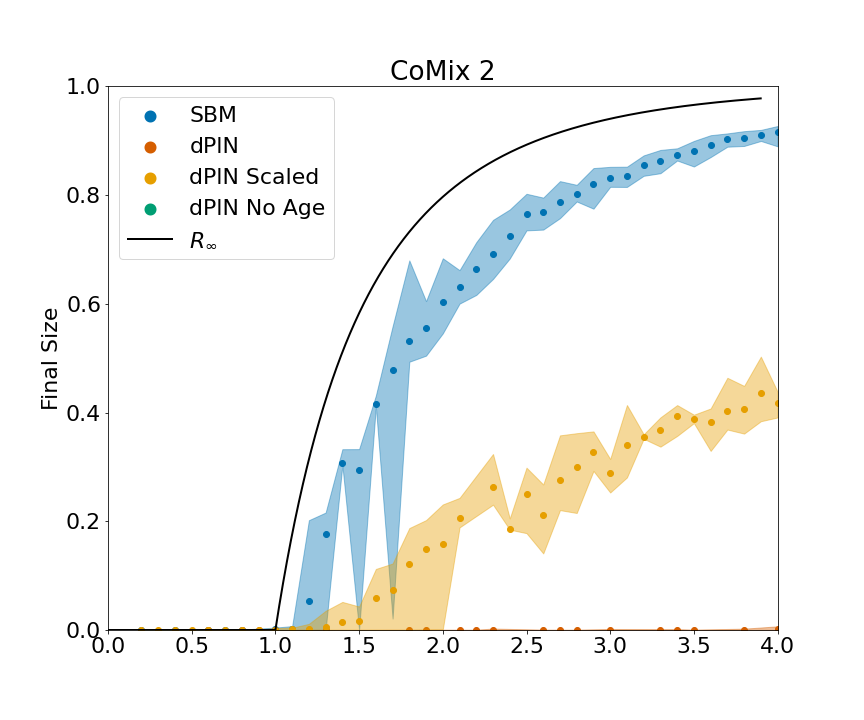
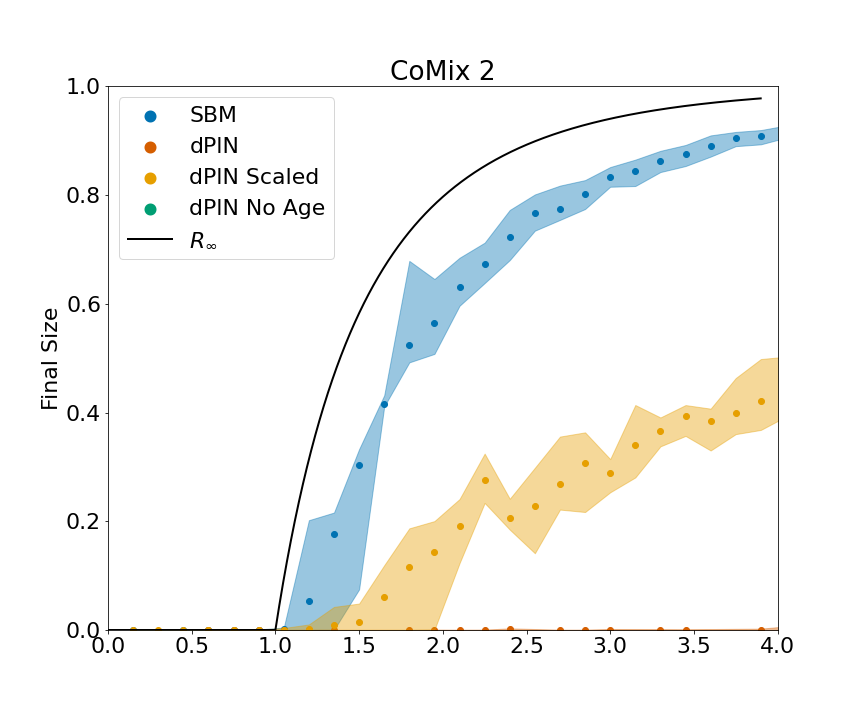
no age 5, normal 19

diff --git a/_final_sellke.py b/_final_sellke.py
@@ -30,7 +30,7 @@ scales = ['none', 'none']
 # taus = [[np.arange(0.28,0.38,0.005), np.arange(0.0001,0.005,0.0001)],
 #         [np.arange(0.2,0.32,0.005), np.arange(0.0001,0.002,0.0001)],
 #         [np.arange(0.001,0.08,0.001), np.arange(0.0001,0.03,0.0001)]]
-# 18
+# 18,19
 taus = [[np.arange(0.005,0.1,0.005), np.arange(0.0005,0.005,0.0005)],
         [np.arange(0.005,0.1,0.005), np.arange(0.00005,0.001,0.00005)],
         [np.arange(0.001,0.05,0.001), np.arange(0.0001,0.03,0.0001)]]
@@ -50,6 +50,6 @@ for i, data in enumerate(datas):
         else:
             params = np.genfromtxt(f'input_data/parameters/params_{data}_{model}.csv', delimiter=',')
         result = nd_p.big_sellke_sims(partitions=partitions,contact_matrix=contact_matrix,network_params=params,n=n,dist_type=model,num_networks=1,iterations=iters, taus=taus[i][j],prop_infec=10/n, scaling=scales[j])
-        with open(f'../output_data/simulations/big/sellke/SIR/18_{data}_{model}_{scales[j]}.json','w') as f:
+        with open(f'../output_data/simulations/big/sellke/SIR/19_{data}_{model}_{scales[j]}.json','w') as f:
             json.dump(result, f)
 print('done')

diff --git a/_final_sellke_noage_c1.py b/_final_sellke_noage_c1.py
@@ -34,7 +34,10 @@ scales = ['fit1']
 taus = [[np.arange(0.005,0.4,0.005)]]
 # taus = [[np.arange(0.001,0.07,0.002)]]
 # taus = [[np.arange(0.001,0.05,0.002)]]
-
+## 6,7
+# taus = [[np.arange(0.4,0.6005,0.005)]]
+# taus = [[np.arange(0.07,0.09,0.002)]]
+# taus = [[np.arange(0.05,0.09,0.002)]]
 
 
 for i, data in enumerate(datas):
@@ -48,6 +51,6 @@ for i, data in enumerate(datas):
         df = pd.read_csv(f'input_data/{data}.csv')
         _, contact_matrix, params = nd_p.fit_to_data(df=df,dist_type=model, buckets=buckets, save_fig=False)
         result = nd_p.big_sellke_sims(partitions=partitions,contact_matrix=contact_matrix,network_params=params,n=n,dist_type=model,num_networks=1,iterations=iters, taus=taus[i][j],prop_infec=10/n, scaling=scales[j])
-        with open(f'../output_data/simulations/big/sellke/SIR/4_{data}_{model}_{scales[j]}_noage.json','w') as f:
+        with open(f'../output_data/simulations/big/sellke/SIR/5_{data}_{model}_{scales[j]}_noage.json','w') as f:
             json.dump(result, f)
 print('done')

diff --git a/_final_sellke_scale.py b/_final_sellke_scale.py
@@ -34,7 +34,7 @@ scales = ['fit1', 'fit2']
 #         [np.arange(0.0005,0.09,0.0005)],
 #         [np.arange(0.0005,0.06,0.0005)]]
 # taus = [[15*x for x in a] for a in taus]
-# 18
+# 18,19
 taus = [[np.arange(0.005,0.3,0.005)],
         [np.arange(0.005,0.4,0.005)],
         [np.arange(0.005,0.2,0.005)]]
@@ -55,6 +55,6 @@ for i, data in enumerate(datas):
         else:
             params = np.genfromtxt(f'input_data/parameters/params_{data}_{model}.csv', delimiter=',')
         result = nd_p.big_sellke_sims(partitions=partitions,contact_matrix=contact_matrix,network_params=params,n=n,dist_type=model,num_networks=1,iterations=iters, taus=taus[i][j],prop_infec=10/n, scaling=scales[j])
-        with open(f'../output_data/simulations/big/sellke/SIR/18_{data}_{model}_{scales[j]}.json','w') as f:
+        with open(f'../output_data/simulations/big/sellke/SIR/19_{data}_{model}_{scales[j]}.json','w') as f:
             json.dump(result, f)
 print('done')

diff --git a/_final_sellke_noage_c2.py b/_final_sellke_noage_c2.py
@@ -47,6 +47,6 @@ for i, data in enumerate(datas):
         df = pd.read_csv(f'input_data/{data}.csv')
         _, contact_matrix, params = nd_p.fit_to_data(df=df,dist_type=model, buckets=buckets, save_fig=False)
         result = nd_p.big_sellke_sims(partitions=partitions,contact_matrix=contact_matrix,network_params=params,n=n,dist_type=model,num_networks=1,iterations=iters, taus=taus[i][j],prop_infec=10/n, scaling=scales[j])
-        with open(f'../output_data/simulations/big/sellke/SIR/4_{data}_{model}_{scales[j]}_noage.json','w') as f:
+        with open(f'../output_data/simulations/big/sellke/SIR/5_{data}_{model}_{scales[j]}_noage.json','w') as f:
             json.dump(result, f)
 print('done')

diff --git a/_final_sellke_noage_p.py b/_final_sellke_noage_p.py
@@ -46,6 +46,6 @@ for i, data in enumerate(datas):
         df = pd.read_csv(f'input_data/{data}.csv')
         _, contact_matrix, params = nd_p.fit_to_data(df=df,dist_type=model, buckets=buckets, save_fig=False)
         result = nd_p.big_sellke_sims(partitions=partitions,contact_matrix=contact_matrix,network_params=params,n=n,dist_type=model,num_networks=1,iterations=iters, taus=taus[i][j],prop_infec=10/n, scaling=scales[j])
-        with open(f'../output_data/simulations/big/sellke/SIR/4_{data}_{model}_{scales[j]}_noage.json','w') as f:
+        with open(f'../output_data/simulations/big/sellke/SIR/5_{data}_{model}_{scales[j]}_noage.json','w') as f:
             json.dump(result, f)
 print('done')
